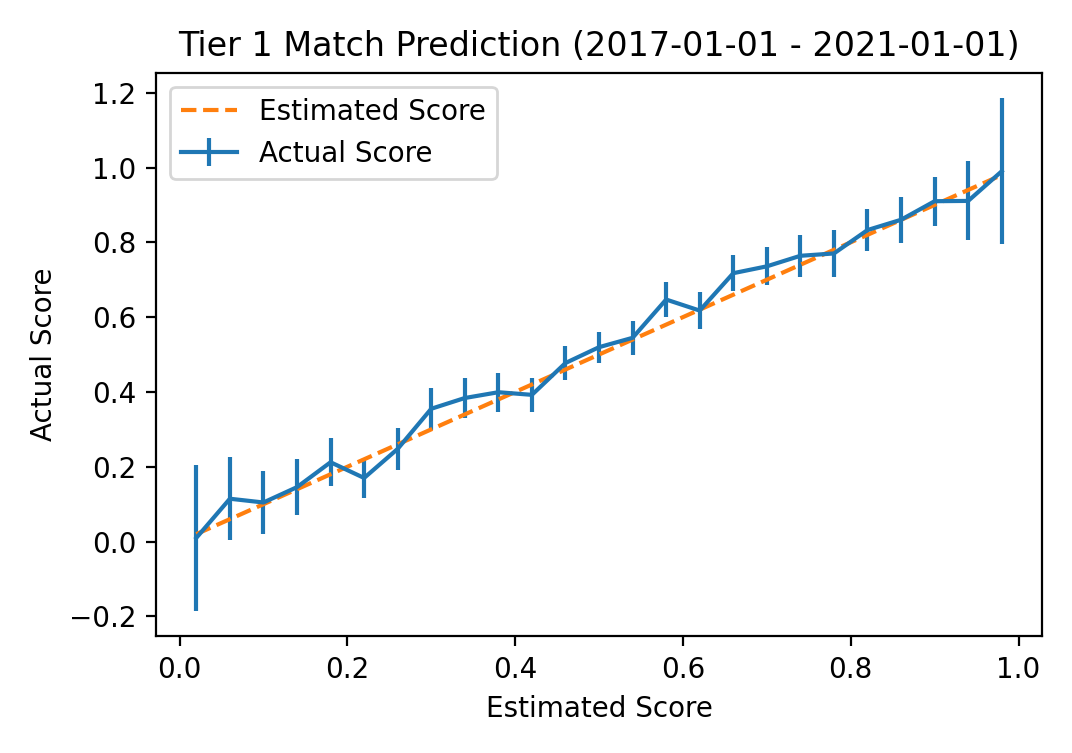
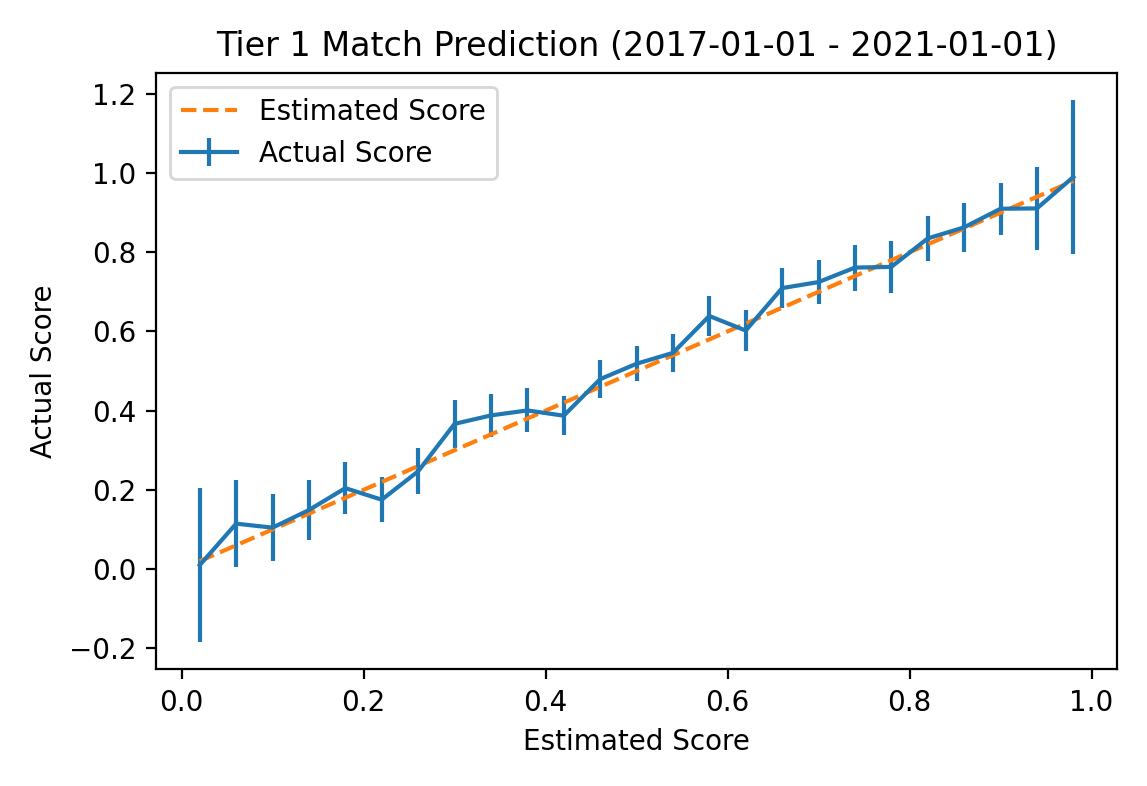
fixed some readme typos/errors

Changed region(s): [[0.0308, 0.0305, 0.9851, 0.9774]]

diff --git a/README.md b/README.md
@@ -58,12 +58,12 @@ Ratings are player-based rather than team-based. Win probabilities and rating ad
 
 where r<sub>i</sub> is player i's rating and f(p<sub>i</sub>) is player i's share of the team's rating adjustment. Note that player ratings shouldn't be interpreted as individual player skill, because the model can't measure skill gap within a team. The main advantage is that this system is able to handle roster signings and major roster changes much better than a model which only assigns ratings to team IDs. It is also able to make a decent estimate of a newly-formed team's initial rating.
 
-### Series-based rating updates
-Ratings are updated based on series results rather than individual game results. As with a typical Elo system the rating update formula is r<sub>new</sub> = r<sub>old</sub> + k(score<sub>actual</sub> - score<sub>expected</sub>). The number of matches a team is expected to win in a series is simply match count × win probability<sup>*</sup>, so score<sub>actual</sub> is the percentage of matches the team won (e.g. 66.67% for a 2-1) and score<sub>expected</sub> is their win probability.
+#### Series-based rating updates
+Ratings are updated based on series results rather than individual game results. As with a typical Elo system the rating update formula is r<sub>new</sub> = r<sub>old</sub> + k(score<sub>actual</sub> - score<sub>expected</sub>). The number of matches a team is expected to win in a series is simply match count × win probability*, so score<sub>actual</sub> is the percentage of matches the team won (e.g. 66.67% for a 2-1) and score<sub>expected</sub> is their win probability.
 
 I suspect that these numbers should probably be adjusted based on the type of match (bo1, bo2, bo3, etc.), but as far as I can tell the Steam Web API doesn't differentiate between a bo2 and a bo3. This means that it is impossible to tell whether a 2-0 series is a bo2 or a bo3. Heuristics could probably be used to make a reasonable guess (most tournaments will not have bo2s and bo3s on the same match day), but for now the model does not use this information.
 
-<sup>*</sup>As with a typical Elo system the win probability of team 1 is calculated as <img src="https://render.githubusercontent.com/render/math?math=f(p_i) = \frac{1}{1%2B10^{(r_2 - r_1)/400}}">, where r<sub>1</sub> is team 1's rating and r<sub>2</sub> is team 2's rating.
+*As with a typical Elo system the win probability of team 1 is calculated as <img src="https://render.githubusercontent.com/render/math?math=\frac{1}{1%2B10^{(r_2 - r_1)/400}}">, where r<sub>1</sub> is team 1's rating and r<sub>2</sub> is team 2's rating.
 
 #### K adjustments
 Because online matches are far more common than offline matches, the model tends to have a lot of difficulty accounting for regional strength. In general, the more competitive a region is the lower the average rating of its teams will be. This also means that teams which perform well in their region but struggle internationally (e.g. Team Aster) are very difficult to accurately predict. I'm planning on eventually properly accounting for this using region/league quality but for now I'm just using heuristics. The current model uses a dynamic k-factor based on team quality and Liquipedia tier:
@@ -79,12 +79,12 @@ Elo predictions use a base k parameter of 55. A typical tier 1 team has a rating
 
 ![Plot comparing estimated win probability to actual win probability for tier 1 matches](image/model_calibration.png)
 
-The vertical lines on the actual probability plot represent 95% standard error bars for the sampled win percentage. The largest error is for the 387 series for which the model predicted the favored team would win 58% of games; in actuality, the favored team won 64.7% of these games with a standard error of 2.4%. Over all tier 1 matches in the evaluation time frame the model achieved a Brier Skill Score of 0.186. For additional reference, the same plot for all matches in tier 3 or better tournaments is shown below.
+The vertical lines on the actual probability plot represent 95% standard error bars for the sampled win percentage. The largest error is for the 344 series for which the model predicted the favored team would win 58% of games; in actuality, the favored team won 63.9% of these games with a standard error of 2.6%. Over all tier 1 matches in the evaluation time frame the model achieved a Brier Skill Score of 0.186. For additional reference, the same plot for all matches in tier 3 or better tournaments is shown below.
 
 ![Plot comparing estimated win probability to actual win probability for tier 1 -3 matches](image/model_calibration_tier3.png)
 
 ## Monte Carlo Sampler
-As mentioned above, the simulator used for Monte Carlo sampling should be entirely in-line with TI rules. It first simulates the group stage, then simulates the main event using seeding from the group stage. I'm mostly interested in group stage probabilities so I haven't yet written code for handling elimination bracket results (this is why the retroactive predictions only go up to the end of the group stage) but might get around to it some time before the TI 10 main event.
+As mentioned above, the simulator used for Monte Carlo sampling should be entirely in-line with TI rules. It first simulates the group stage, then simulates the main event using seeding from the group stage. I'm mostly interested in group stage probabilities so I haven't yet written code for making predictions after the group stage (this is why the retroactive predictions only go up to the end of the group stage) but might get around to it some time before the TI 10 main event.
 
 For Elo model predictions on the website, the simulator updates model ratings over the course of the simulation based on the simulated results (if you want to enable this for an output report you're generating use the `-s` command-line flag). For example, if Team A has a 10% chance to win their first match, then in the 10% of simulations in which they do so their rating will be improved accordingly and they will be more likely to win subsequent matches as a result. This widens the distribution of the simulated results a little, resulting in slightly lower high probabilities and slightly higher low probabilities.
 
